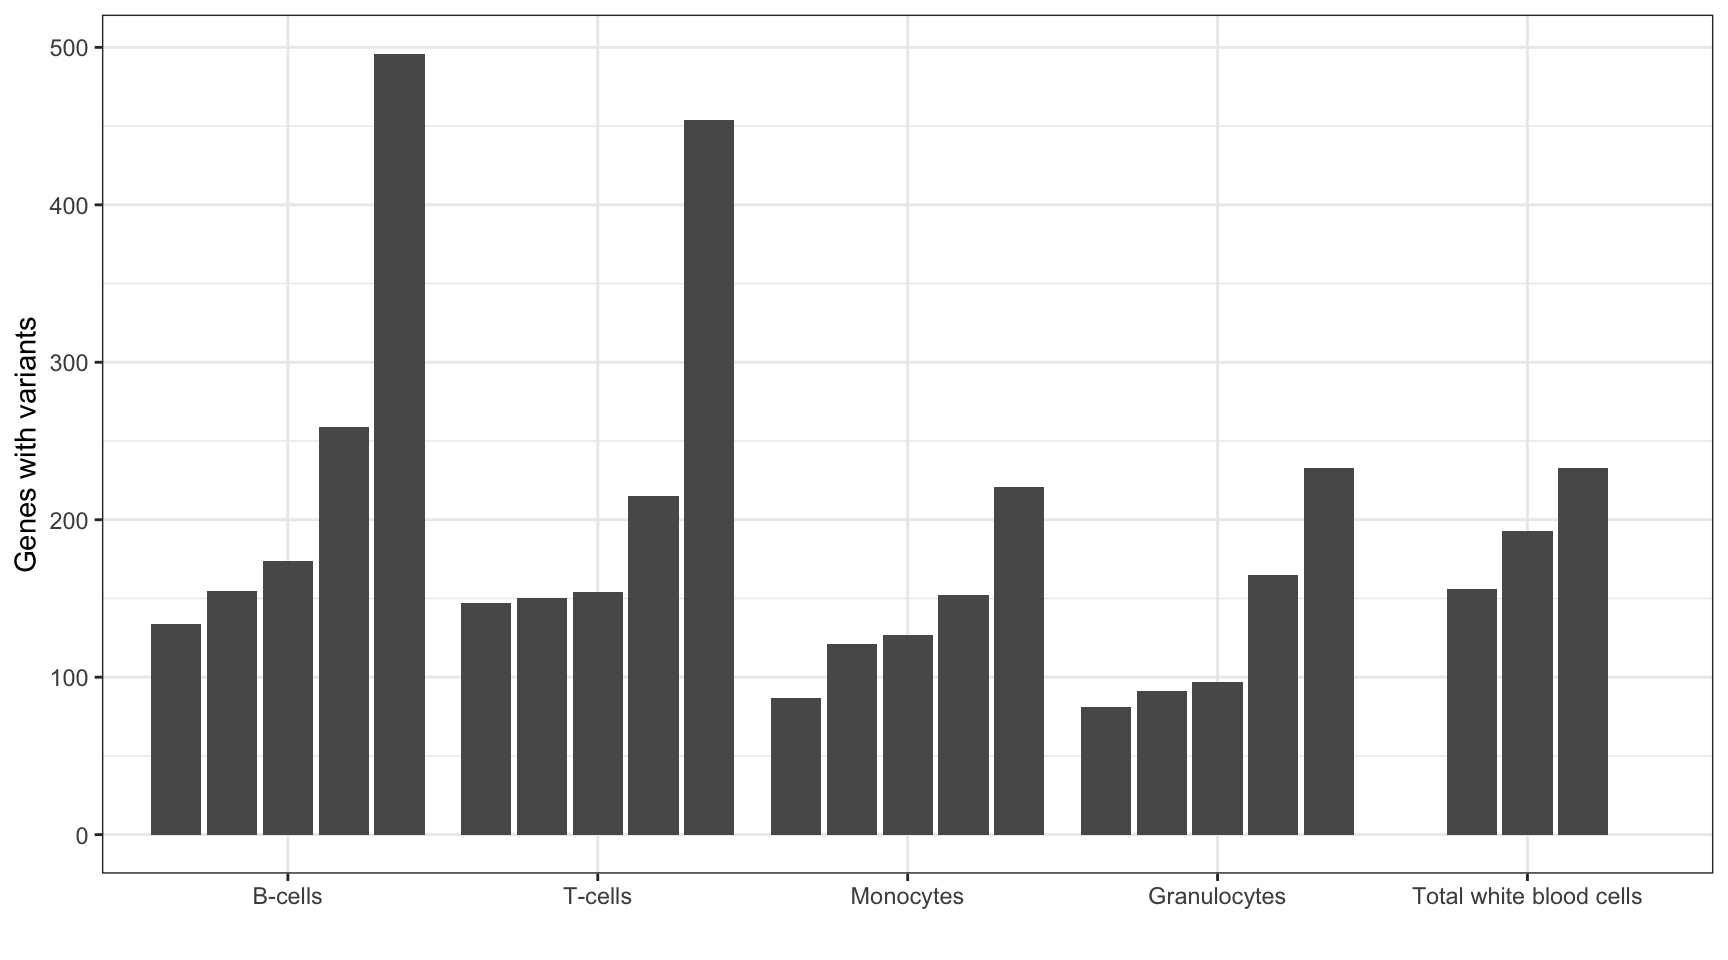
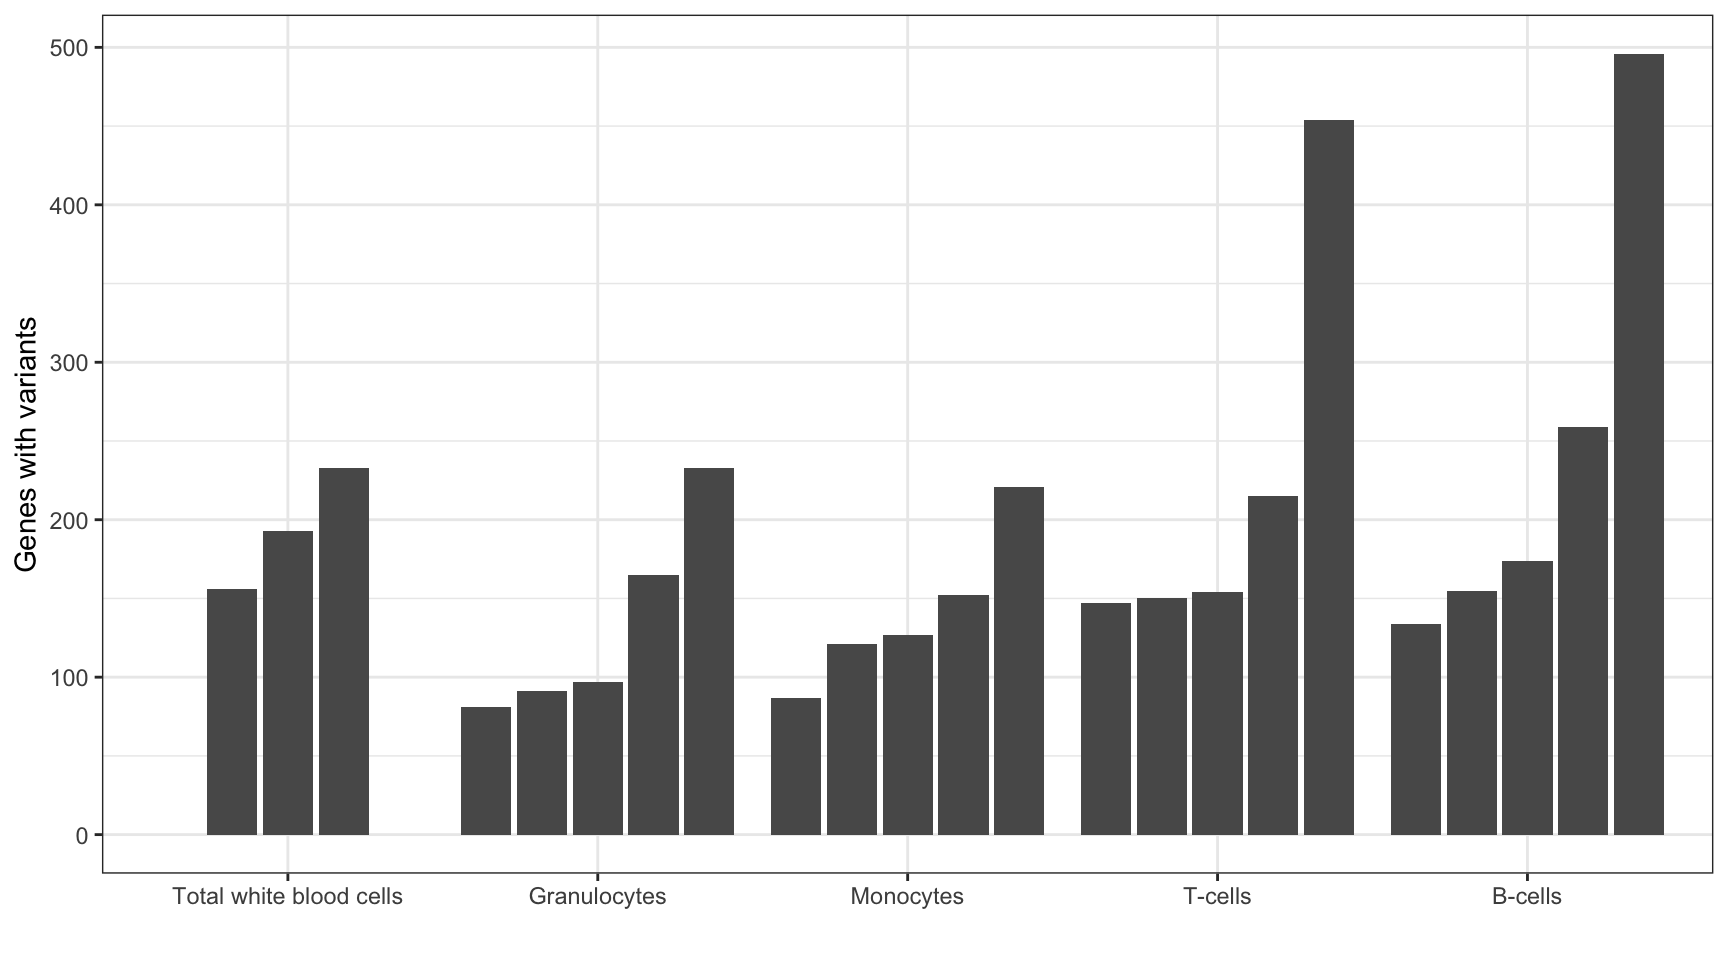
Build site.

diff --git a/docs/Leucegene_Normals.html b/docs/Leucegene_Normals.html
@@ -561,16 +561,16 @@ This reproducible <a href="http://rmarkdown.rstudio.com">R Markdown</a> analysis
 <div class="panel panel-default">
 <div class="panel-heading">
 <p class="panel-title">
-<a data-toggle="collapse" data-parent="#workflowr-checks" href="#strongRepositoryversionstrongahrefhttpsgithubcomOshlackMINTIEpaperanalysistreeaf503f253494b562986aef0e6a9e18b5d17d22c6targetblankaf503f2a"> <span class="glyphicon glyphicon-ok text-success" aria-hidden="true"></span> <strong>Repository version:</strong> <a href="https://github.com/Oshlack/MINTIE-paper-analysis/tree/af503f253494b562986aef0e6a9e18b5d17d22c6" target="_blank">af503f2</a> </a>
+<a data-toggle="collapse" data-parent="#workflowr-checks" href="#strongRepositoryversionstrongahrefhttpsgithubcomOshlackMINTIEpaperanalysistreebbc278a2ce8cc4777cf358cd4d3552461341a4ddtargetblankbbc278aa"> <span class="glyphicon glyphicon-ok text-success" aria-hidden="true"></span> <strong>Repository version:</strong> <a href="https://github.com/Oshlack/MINTIE-paper-analysis/tree/bbc278a2ce8cc4777cf358cd4d3552461341a4dd" target="_blank">bbc278a</a> </a>
 </p>
 </div>
[2 lines of base64/hex data omitted]
 <div class="panel-body">
 <p>
 Great! You are using Git for version control. Tracking code development and connecting the code version to the results is critical for reproducibility.
 </p>
 <p>
-The results in this page were generated with repository version <a href="https://github.com/Oshlack/MINTIE-paper-analysis/tree/af503f253494b562986aef0e6a9e18b5d17d22c6" target="_blank">af503f2</a>. See the <em>Past versions</em> tab to see a history of the changes made to the R Markdown and HTML files.
+The results in this page were generated with repository version <a href="https://github.com/Oshlack/MINTIE-paper-analysis/tree/bbc278a2ce8cc4777cf358cd4d3552461341a4dd" target="_blank">bbc278a</a>. See the <em>Past versions</em> tab to see a history of the changes made to the R Markdown and HTML files.
 </p>
 <p>
 Note that you need to be careful to ensure that all relevant files for the analysis have been committed to Git prior to generating the results (you can use <code>wflow_publish</code> or <code>wflow_git_commit</code>). workflowr only checks the R Markdown file, but you know if there are other scripts or data files that it depends on. Below is the status of the Git repository when the results were generated:
@@ -591,8 +591,12 @@ Ignored files:
     Ignored:    data/simu/.DS_Store
     Ignored:    output/Leucegene_gene_counts.tsv
 
+Untracked files:
+    Untracked:  analysis/RCH_B-ALL.Rmd
+
 Unstaged changes:
     Modified:   analysis/_site.yml
+    Modified:   analysis/index.Rmd
 
 </code></pre>
 <p>
@@ -631,6 +635,40 @@ Message
 </tr>
 </thead>
 <tbody>
+<tr>
+<td>
+Rmd
+</td>
+<td>
+<a href="https://github.com/Oshlack/MINTIE-paper-analysis/blob/bbc278a2ce8cc4777cf358cd4d3552461341a4dd/analysis/Leucegene_Normals.Rmd" target="_blank">bbc278a</a>
+</td>
+<td>
+Marek Cmero
+</td>
+<td>
+2020-05-07
+</td>
+<td>
+Refactoring
+</td>
+</tr>
+<tr>
+<td>
+html
+</td>
+<td>
+<a href="https://rawcdn.githack.com/Oshlack/MINTIE-paper-analysis/87b4e62442a254ec41b1ffdd6b55824a14a9463e/docs/Leucegene_Normals.html" target="_blank">87b4e62</a>
+</td>
+<td>
+Marek Cmero
+</td>
+<td>
+2020-05-07
+</td>
+<td>
+Build site.
+</td>
+</tr>
 <tr>
 <td>
 Rmd
@@ -781,10 +819,7 @@ library(here)
 library(stringr)
 
 # plotting
-library(ggplot2)
-
-# bioinformatics/stats helpers
-library(edgeR)</code></pre>
+library(ggplot2)</code></pre>
 <pre class="r"><code>options(stringsAsFactors = FALSE)</code></pre>
 <pre class="r"><code>source(here(&quot;code/leucegene_helper.R&quot;))</code></pre>
 <div id="leucegene-normals" class="section level1">
@@ -838,28 +873,8 @@ print(summary_by_sample)</code></pre>
 <div id="variant-genes" class="section level2">
 <h2>Variant Genes</h2>
 <p>MINTIE paper Figure 4 showing the number of variant genes called across the Leucegene normal samples.</p>
-<pre class="r"><code>var_genes &lt;- normals_results$overlapping_genes %&gt;% 
-                str_split(&quot;\\||:&quot;)
-
-repeat_rows &lt;- rep(1:nrow(normals_results), sapply(var_genes, length))
-results_by_gene &lt;- data.table(normals_results[repeat_rows,])
-results_by_gene$gene &lt;- unlist(var_genes)
-
-results_summary &lt;- results_by_gene[, length(unique(gene)), by = c(&quot;sample&quot;, &quot;cell_type&quot;)]
-results_summary &lt;- results_summary %&gt;% arrange(cell_type, V1) %&gt;% data.table()
-results_summary$sample &lt;- factor(results_summary$sample,
-                                 levels = results_summary$sample)
-
-print(&quot;Summary of variant genes called across samples:&quot;)</code></pre>
-<pre><code>[1] &quot;Summary of variant genes called across samples:&quot;</code></pre>
-<pre class="r"><code>summary(results_summary$V1)</code></pre>
-<pre><code>   Min. 1st Qu.  Median    Mean 3rd Qu.    Max. 
-   81.0   130.5   155.0   186.7   218.0   496.0 </code></pre>
-<pre class="r"><code># reorder cell types by total
-results_totals &lt;- results_summary[, sum(V1), by = c(&quot;cell_type&quot;)] %&gt;%
-                    arrange(desc(V1))
-results_summary$cell_type &lt;- factor(results_summary$cell_type,
-                                    levels = results_totals$cell_type)
+<pre class="r"><code>results_summary &lt;- get_results_summary(mutate(normals_results, group_var = cell_type),
+                                       group_var_name = &quot;cell_type&quot;)
 
 ggplot(results_summary, aes(cell_type, V1, group=sample)) + 
     geom_bar(position = position_dodge2(width = 0.9, preserve = &quot;single&quot;), stat = &quot;identity&quot;) +
@@ -970,6 +985,7 @@ Marek Cmero
 chess_genes &lt;- read.delim(gzfile(here(&quot;data/ref/chess2.2.genes.gz&quot;)))
 
 # join gene info with results and summarise by gene type
+results_by_gene &lt;- get_results_by_gene(normals_results)
 gene_count &lt;- left_join(results_by_gene, chess_genes, by = c(&quot;gene&quot; = &quot;Gene_Name&quot;)) %&gt;%
                 group_by(Gene_Type) %&gt;%
                 summarise(n_genes = length(unique(gene))) %&gt;%
@@ -991,7 +1007,9 @@ controls_comp$cell_type &lt;- NULL
 controls_test_dir &lt;- here(&quot;data/leucegene/normals_controls_test_results&quot;)
 controls_comp &lt;- load_controls_comparison(controls_test_dir) %&gt;%
                     rbind(controls_comp, .)
-results_summary &lt;- get_controls_results_summary(controls_comp)
+results_summary &lt;- get_results_summary(mutate(controls_comp,
+                                              group_var = controls),
+                                       group_var_name = &quot;controls&quot;)
 
 print(&quot;Total variant genes called using different controls:&quot;)</code></pre>
 <pre><code>[1] &quot;Total variant genes called using different controls:&quot;</code></pre>
@@ -1048,6 +1066,17 @@ Date
 <tbody>
 <tr>
 <td>
+<a href="https://github.com/Oshlack/MINTIE-paper-analysis/blob/87b4e62442a254ec41b1ffdd6b55824a14a9463e/docs/figure/Leucegene_Normals.Rmd/controls_comparison-1.png" target="_blank">87b4e62</a>
+</td>
+<td>
+Marek Cmero
+</td>
+<td>
+2020-05-07
+</td>
+</tr>
+<tr>
+<td>
 <a href="https://github.com/Oshlack/MINTIE-paper-analysis/blob/358aa53d68acc377f4eca81bd919c2cc2b9b3f72/docs/figure/Leucegene_Normals.Rmd/controls_comparison-1.png" target="_blank">358aa53</a>
 </td>
 <td>
@@ -1084,26 +1113,25 @@ attached base packages:
 [1] stats     graphics  grDevices utils     datasets  methods   base     
 
 other attached packages:
-[1] edgeR_3.24.3      limma_3.38.3      ggplot2_3.1.0     stringr_1.4.0    
-[5] here_0.1          dplyr_0.8.1       data.table_1.12.0
+[1] ggplot2_3.1.0     stringr_1.4.0     here_0.1          dplyr_0.8.1      
+[5] data.table_1.12.0
 
 loaded via a namespace (and not attached):
  [1] Rcpp_1.0.1         RColorBrewer_1.1-2 plyr_1.8.4        
  [4] compiler_3.5.1     pillar_1.3.1       later_1.0.0       
  [7] git2r_0.26.1       workflowr_1.6.1    tools_3.5.1       
-[10] digest_0.6.18      lattice_0.20-38    evaluate_0.13     
-[13] tibble_2.1.1       gtable_0.3.0       pkgconfig_2.0.2   
-[16] rlang_0.4.2        cli_1.1.0          yaml_2.2.0        
-[19] xfun_0.5           withr_2.1.2        knitr_1.22        
-[22] fs_1.2.7           locfit_1.5-9.1     rprojroot_1.3-2   
-[25] grid_3.5.1         tidyselect_0.2.5   glue_1.3.1        
-[28] R6_2.4.0           fansi_0.4.0        rmarkdown_1.12    
-[31] purrr_0.3.2        magrittr_1.5       whisker_0.3-2     
-[34] backports_1.1.3    scales_1.0.0       promises_1.1.0    
-[37] htmltools_0.3.6    assertthat_0.2.1   colorspace_1.4-1  
-[40] httpuv_1.5.2       labeling_0.3       utf8_1.1.4        
-[43] stringi_1.4.3      lazyeval_0.2.2     munsell_0.5.0     
-[46] crayon_1.3.4      </code></pre>
+[10] digest_0.6.18      evaluate_0.13      tibble_2.1.1      
+[13] gtable_0.3.0       pkgconfig_2.0.2    rlang_0.4.2       
+[16] cli_1.1.0          yaml_2.2.0         xfun_0.5          
+[19] withr_2.1.2        knitr_1.22         fs_1.2.7          
+[22] rprojroot_1.3-2    grid_3.5.1         tidyselect_0.2.5  
+[25] glue_1.3.1         R6_2.4.0           fansi_0.4.0       
+[28] rmarkdown_1.12     purrr_0.3.2        magrittr_1.5      
+[31] whisker_0.3-2      backports_1.1.3    scales_1.0.0      
+[34] promises_1.1.0     htmltools_0.3.6    assertthat_0.2.1  
+[37] colorspace_1.4-1   httpuv_1.5.2       labeling_0.3      
+[40] utf8_1.1.4         stringi_1.4.3      lazyeval_0.2.2    
+[43] munsell_0.5.0      crayon_1.3.4      </code></pre>
 </div>
 </div>
 </div>

diff --git a/docs/Leucegene_Validation.html b/docs/Leucegene_Validation.html
@@ -561,16 +561,16 @@ This reproducible <a href="http://rmarkdown.rstudio.com">R Markdown</a> analysis
 <div class="panel panel-default">
 <div class="panel-heading">
 <p class="panel-title">
-<a data-toggle="collapse" data-parent="#workflowr-checks" href="#strongRepositoryversionstrongahrefhttpsgithubcomOshlackMINTIEpaperanalysistreeaf503f253494b562986aef0e6a9e18b5d17d22c6targetblankaf503f2a"> <span class="glyphicon glyphicon-ok text-success" aria-hidden="true"></span> <strong>Repository version:</strong> <a href="https://github.com/Oshlack/MINTIE-paper-analysis/tree/af503f253494b562986aef0e6a9e18b5d17d22c6" target="_blank">af503f2</a> </a>
+<a data-toggle="collapse" data-parent="#workflowr-checks" href="#strongRepositoryversionstrongahrefhttpsgithubcomOshlackMINTIEpaperanalysistreebbc278a2ce8cc4777cf358cd4d3552461341a4ddtargetblankbbc278aa"> <span class="glyphicon glyphicon-ok text-success" aria-hidden="true"></span> <strong>Repository version:</strong> <a href="https://github.com/Oshlack/MINTIE-paper-analysis/tree/bbc278a2ce8cc4777cf358cd4d3552461341a4dd" target="_blank">bbc278a</a> </a>
 </p>
 </div>
[2 lines of base64/hex data omitted]
 <div class="panel-body">
 <p>
 Great! You are using Git for version control. Tracking code development and connecting the code version to the results is critical for reproducibility.
 </p>
 <p>
-The results in this page were generated with repository version <a href="https://github.com/Oshlack/MINTIE-paper-analysis/tree/af503f253494b562986aef0e6a9e18b5d17d22c6" target="_blank">af503f2</a>. See the <em>Past versions</em> tab to see a history of the changes made to the R Markdown and HTML files.
+The results in this page were generated with repository version <a href="https://github.com/Oshlack/MINTIE-paper-analysis/tree/bbc278a2ce8cc4777cf358cd4d3552461341a4dd" target="_blank">bbc278a</a>. See the <em>Past versions</em> tab to see a history of the changes made to the R Markdown and HTML files.
 </p>
 <p>
 Note that you need to be careful to ensure that all relevant files for the analysis have been committed to Git prior to generating the results (you can use <code>wflow_publish</code> or <code>wflow_git_commit</code>). workflowr only checks the R Markdown file, but you know if there are other scripts or data files that it depends on. Below is the status of the Git repository when the results were generated:
@@ -591,8 +591,12 @@ Ignored files:
     Ignored:    data/simu/.DS_Store
     Ignored:    output/Leucegene_gene_counts.tsv
 
+Untracked files:
+    Untracked:  analysis/RCH_B-ALL.Rmd
+
 Unstaged changes:
     Modified:   analysis/_site.yml
+    Modified:   analysis/index.Rmd
 
 </code></pre>
 <p>
@@ -631,6 +635,40 @@ Message
 </tr>
 </thead>
 <tbody>
+<tr>
+<td>
+Rmd
+</td>
+<td>
+<a href="https://github.com/Oshlack/MINTIE-paper-analysis/blob/bbc278a2ce8cc4777cf358cd4d3552461341a4dd/analysis/Leucegene_Validation.Rmd" target="_blank">bbc278a</a>
+</td>
+<td>
+Marek Cmero
+</td>
+<td>
+2020-05-07
+</td>
+<td>
+Refactoring
+</td>
+</tr>
+<tr>
+<td>
+html
+</td>
+<td>
+<a href="https://rawcdn.githack.com/Oshlack/MINTIE-paper-analysis/87b4e62442a254ec41b1ffdd6b55824a14a9463e/docs/Leucegene_Validation.html" target="_blank">87b4e62</a>
+</td>
+<td>
+Marek Cmero
+</td>
+<td>
+2020-05-07
+</td>
+<td>
+Build site.
+</td>
+</tr>
 <tr>
 <td>
 Rmd
@@ -747,10 +785,7 @@ library(here)
 library(stringr)
 
 # plotting
-library(ggplot2)
-
-# bioinformatics/stats helpers
-library(edgeR)</code></pre>
+library(ggplot2)</code></pre>
 <pre class="r"><code>options(stringsAsFactors = FALSE)</code></pre>
 <pre class="r"><code>source(here(&quot;code/leucegene_helper.R&quot;))</code></pre>
 <div id="leucegene-validation" class="section level1">
@@ -776,7 +811,10 @@ validation &lt;- list.files(leucegene_results_dir, full.names = TRUE) %&gt;%
 <div id="kmt2a-ptd-controls-comparison" class="section level2">
 <h2>KMT2A-PTD controls comparison</h2>
 <p>MINTIE paper Supplementary Figure 2. Shows the number of variant genes found in the Leucegene cohort containing KMT2A PTDs.</p>
-<pre class="r"><code>results_summary &lt;- get_controls_results_summary(mutate(kmt2a_results, sample = patient))
+<pre class="r"><code>results_summary &lt;- get_results_summary(mutate(kmt2a_results,
+                                              sample = patient,
+                                              group_var = controls),
+                                       group_var_name = &quot;controls&quot;)
 
 print(&quot;Total variant genes called using different controls:&quot;)</code></pre>
 <pre><code>[1] &quot;Total variant genes called using different controls:&quot;</code></pre>
@@ -823,6 +861,17 @@ Date
 </tr>
 </thead>
 <tbody>
+<tr>
+<td>
+<a href="https://github.com/Oshlack/MINTIE-paper-analysis/blob/87b4e62442a254ec41b1ffdd6b55824a14a9463e/docs/figure/Leucegene_Validation.Rmd/KMT2A-PTD_controls_comparison-1.png" target="_blank">87b4e62</a>
+</td>
+<td>
+Marek Cmero
+</td>
+<td>
+2020-05-07
+</td>
+</tr>
 <tr>
 <td>
 <a href="https://github.com/Oshlack/MINTIE-paper-analysis/blob/90c7fd98f9bc03030daafdb53780e4d3a8831d1f/docs/figure/Leucegene_Validation.Rmd/KMT2A-PTD_controls_comparison-1.png" target="_blank">90c7fd9</a>
@@ -1006,25 +1055,24 @@ attached base packages:
 [1] stats     graphics  grDevices utils     datasets  methods   base     
 
 other attached packages:
-[1] edgeR_3.24.3      limma_3.38.3      ggplot2_3.1.0     stringr_1.4.0    
-[5] here_0.1          dplyr_0.8.1       data.table_1.12.0
+[1] ggplot2_3.1.0     stringr_1.4.0     here_0.1          dplyr_0.8.1      
+[5] data.table_1.12.0
 
 loaded via a namespace (and not attached):
  [1] Rcpp_1.0.1         RColorBrewer_1.1-2 plyr_1.8.4        
  [4] compiler_3.5.1     pillar_1.3.1       later_1.0.0       
  [7] git2r_0.26.1       workflowr_1.6.1    tools_3.5.1       
-[10] digest_0.6.18      lattice_0.20-38    evaluate_0.13     
-[13] tibble_2.1.1       gtable_0.3.0       pkgconfig_2.0.2   
-[16] rlang_0.4.2        yaml_2.2.0         xfun_0.5          
-[19] withr_2.1.2        knitr_1.22         fs_1.2.7          
-[22] locfit_1.5-9.1     rprojroot_1.3-2    grid_3.5.1        
-[25] tidyselect_0.2.5   glue_1.3.1         R6_2.4.0          
-[28] rmarkdown_1.12     purrr_0.3.2        magrittr_1.5      
-[31] whisker_0.3-2      backports_1.1.3    scales_1.0.0      
-[34] promises_1.1.0     htmltools_0.3.6    assertthat_0.2.1  
-[37] colorspace_1.4-1   httpuv_1.5.2       labeling_0.3      
-[40] stringi_1.4.3      lazyeval_0.2.2     munsell_0.5.0     
-[43] crayon_1.3.4      </code></pre>
+[10] digest_0.6.18      evaluate_0.13      tibble_2.1.1      
+[13] gtable_0.3.0       pkgconfig_2.0.2    rlang_0.4.2       
+[16] yaml_2.2.0         xfun_0.5           withr_2.1.2       
+[19] knitr_1.22         fs_1.2.7           rprojroot_1.3-2   
+[22] grid_3.5.1         tidyselect_0.2.5   glue_1.3.1        
+[25] R6_2.4.0           rmarkdown_1.12     purrr_0.3.2       
+[28] magrittr_1.5       whisker_0.3-2      backports_1.1.3   
+[31] scales_1.0.0       promises_1.1.0     htmltools_0.3.6   
+[34] assertthat_0.2.1   colorspace_1.4-1   httpuv_1.5.2      
+[37] labeling_0.3       stringi_1.4.3      lazyeval_0.2.2    
+[40] munsell_0.5.0      crayon_1.3.4      </code></pre>
 </div>
 </div>
 </div>
